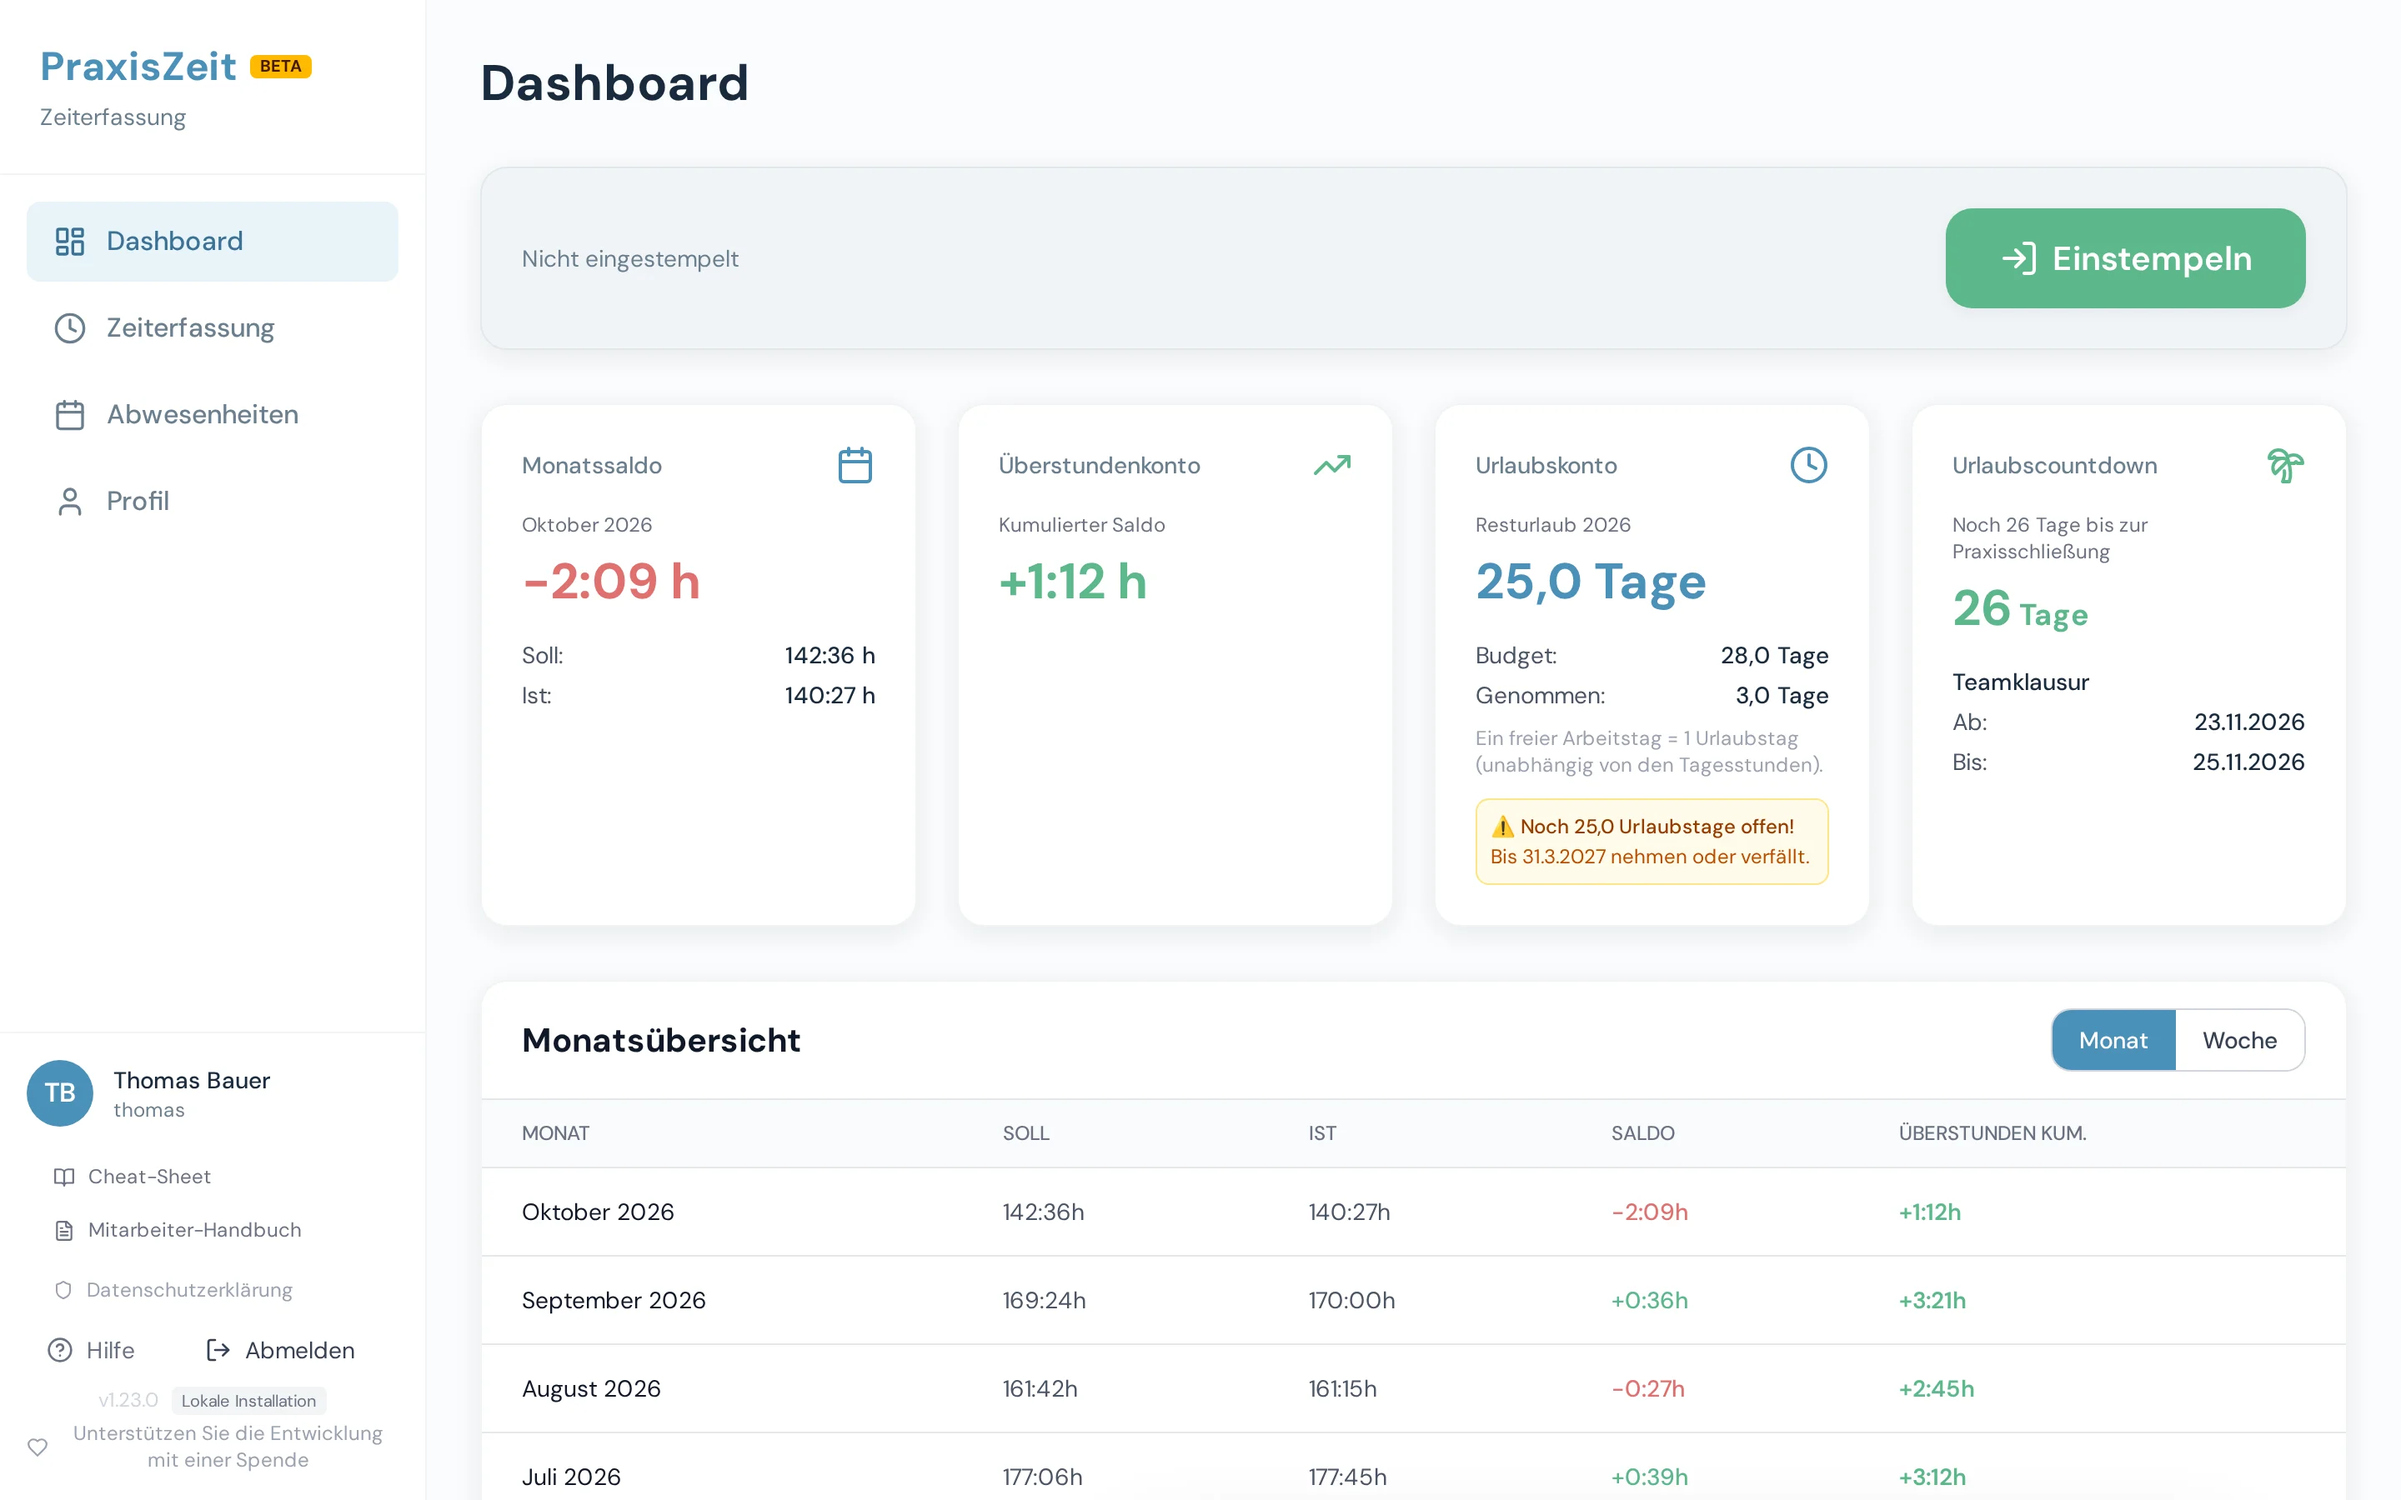
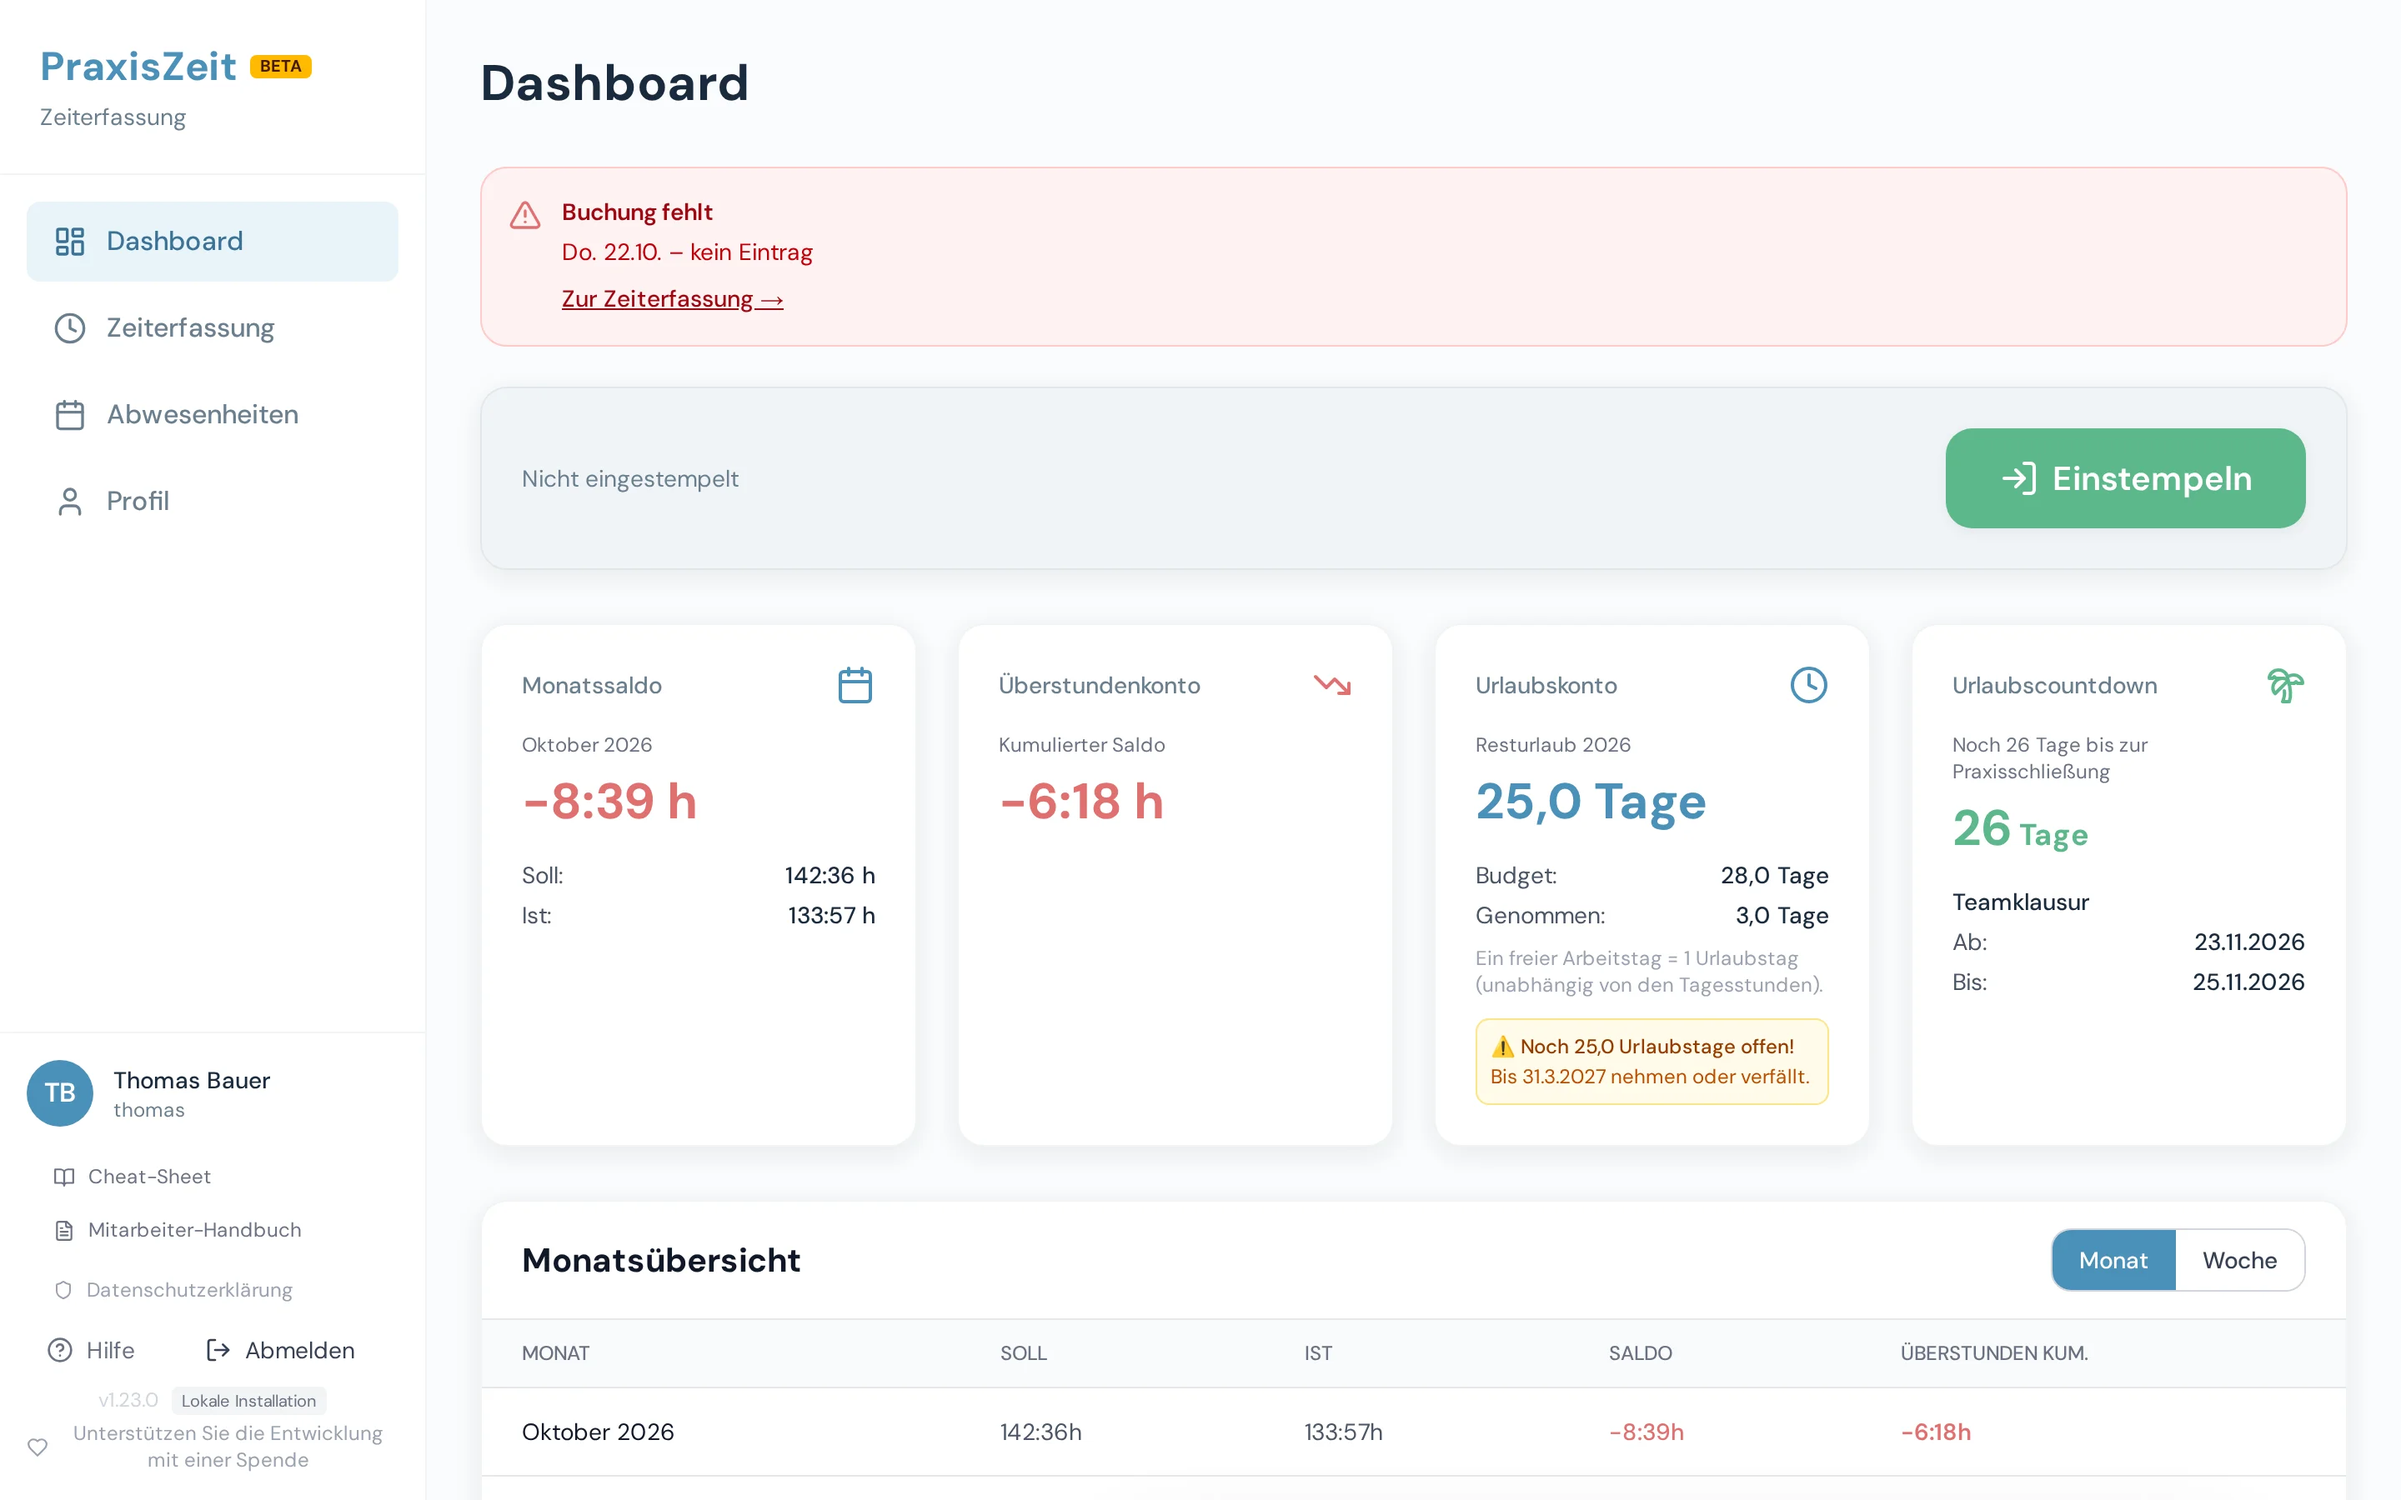
docs(handbuch): Mitarbeitende 1–4, Nachbesserung Runde 2 (R19)
Der absichtlich leere Werktag gehört jetzt Thomas statt Maria: Marias
Dashboard (Übersichtsaufnahme) zeigt wieder einen normalen Saldo ohne
„Buchung fehlt“. ma-vergangener-tag nimmt Thomas auf und füllt dessen
leeren Tag ({{werktag-4}}). Seed: THOMAS_FORGOTTEN_WORKDAY, der §4-Tag
bleibt stabil; PG-Test prüft Thomas' Lücke, seinen §4-Befund und dass
Maria im Stichtagsmonat keinen Werktag ohne Buchung hat.
ma-einstempeln (Thomas) enger geschnitten, damit der Kasten nicht
hineinragt.

diff --git a/frontend/src/handbuch/content/mitarbeitende.ts b/frontend/src/handbuch/content/mitarbeitende.ts
@@ -105,9 +105,9 @@ const shots: ShotDef[] = [
     persona: 'thomas',
     viewport: 'desktop',
     route: '/',
-    crop: { around: ['status', 'einstempeln'], pad: 56 },
+    crop: { around: ['status', 'einstempeln'], pad: 46 },
     markers: [
-      { n: 1, id: 'status', locator: { css: 'main >> text=Nicht eingestempelt >> visible=true' } },
+      { n: 1, id: 'status', locator: { css: 'main >> text=Nicht eingestempelt >> visible=true' }, badge: 'top' },
       { n: 2, id: 'einstempeln', locator: { role: 'button', name: 'Einstempeln', exact: true, within: 'main' }, badge: 'corner' },
     ],
     alt: 'Stempelkarte auf dem Dashboard mit dem Hinweis „Nicht eingestempelt“ und dem grünen Knopf „Einstempeln“',
@@ -159,12 +159,12 @@ const shots: ShotDef[] = [
   },
   {
     id: 'ma-vergangener-tag',
-    persona: 'maria',
+    persona: 'thomas',
     viewport: 'desktop',
     route: '/time-tracking',
     prepare: [
       { click: { role: 'button', name: 'Antrag', exact: true, within: 'main' } },
-      // Seed: an diesem Werktag hat Maria keinen Eintrag (MARIA_FORGOTTEN_WORKDAY)
+      // Seed: an diesem Werktag hat Thomas keinen Eintrag (THOMAS_FORGOTTEN_WORKDAY, R19)
       { fill: { label: 'Datum', within: 'dialog' }, value: '{{werktag-4}}' },
       { fill: { label: 'Bis', within: 'dialog' }, value: '16:30' },
       { fill: { label: 'Pause (Min.)', within: 'dialog' }, value: '30' },

diff --git a/backend/tests/test_handbuch_seed_pg.py b/backend/tests/test_handbuch_seed_pg.py
@@ -28,7 +28,7 @@ from __future__ import annotations
 import importlib.util
 import os
 import uuid
-from datetime import date, time
+from datetime import date, time, timedelta
 from pathlib import Path
 
 import pytest
@@ -666,25 +666,41 @@ def test_no_entry_of_the_stichtag_ends_after_capture_time(full_tenant, app_engin
     assert sorted((r[0], r[1]) for r in rows if r[2] is None) == [("maria", time(7, 45)), ("sarah", time(8, 0))]
 
 
-def test_maria_forgot_to_stamp_on_the_fourth_workday_before(full_tenant, app_engine, monkeypatch):
-    """Aufnahme ``ma-vergangener-tag`` füllt {{werktag-4}}: an diesem Werktag hat
-    Maria weder Eintrag noch Abwesenheit (Einstempeln vergessen); die Tage
-    davor und danach sind belegt. Spiegel von dates.ts::workdayBefore."""
-    from app.models import Absence, TimeEntry
+def test_thomas_forgot_to_stamp_on_the_fourth_workday_before(full_tenant, app_engine, monkeypatch):
+    """Aufnahme ``ma-vergangener-tag`` (Persona thomas) füllt {{werktag-4}}: an
+    diesem Werktag hat Thomas weder Eintrag noch Abwesenheit (Einstempeln
+    vergessen); die Tage davor und danach sind belegt. Maria hat dagegen keinen
+    fehlenden Werktag (ihr Dashboard zeigt kein „Buchung fehlt“, R19).
+    Spiegel von dates.ts::workdayBefore."""
+    from app.models import Absence, PublicHoliday, TimeEntry
     seed = _load_seed()
     assert seed.workday_before(date(2026, 10, 28), 4) == date(2026, 10, 22)
     assert seed.workday_before(date(2026, 11, 2), 1) == date(2026, 10, 30)
     _run_seed(app_engine, seed, monkeypatch)
-    day = seed.workday_before(STICHTAG, seed.MARIA_FORGOTTEN_WORKDAY)
+    day = seed.workday_before(STICHTAG, seed.THOMAS_FORGOTTEN_WORKDAY)
 
     def collect(db):
-        maria = db.query(User).filter(User.tenant_id == TENANT_ID, User.username == "maria").one()
-        entries = {e.date for e in db.query(TimeEntry).filter(
-            TimeEntry.tenant_id == TENANT_ID, TimeEntry.user_id == maria.id)}
-        absences = {a.date for a in db.query(Absence).filter(
-            Absence.tenant_id == TENANT_ID, Absence.user_id == maria.id)}
-        return entries, absences
+        users = {u.username: u for u in db.query(User).filter(User.tenant_id == TENANT_ID)}
+        def booked(name):
+            uid = users[name].id
+            entries = {e.date for e in db.query(TimeEntry).filter(
+                TimeEntry.tenant_id == TENANT_ID, TimeEntry.user_id == uid)}
+            absences = {a.date for a in db.query(Absence).filter(
+                Absence.tenant_id == TENANT_ID, Absence.user_id == uid)}
+            return entries, absences
+        holidays = {h.date for h in db.query(PublicHoliday).filter(PublicHoliday.tenant_id == TENANT_ID)}
+        waiver = [e.date for e in db.query(TimeEntry).filter(
+            TimeEntry.tenant_id == TENANT_ID, TimeEntry.user_id == users["thomas"].id,
+            TimeEntry.break_waiver_reason.isnot(None))]
+        return booked("thomas"), booked("maria"), holidays, waiver
 
-    entries, absences = _read(app_engine, collect)
-    assert day not in entries and day not in absences
-    assert seed.workday_before(STICHTAG, 3) in entries and seed.workday_before(STICHTAG, 5) in entries
+    (t_entries, t_abs), (m_entries, m_abs), holidays, waiver = _read(app_engine, collect)
+    assert day not in t_entries and day not in t_abs
+    assert seed.workday_before(STICHTAG, 3) in t_entries and seed.workday_before(STICHTAG, 5) in t_entries
+    assert len(waiver) == 1 and waiver[0] != day  # §4-Befund bleibt erhalten
+    # Maria: jeder vergangene Werktag im Stichtagsmonat ist belegt
+    d = STICHTAG.replace(day=1)
+    while d < STICHTAG:
+        if d.weekday() < 5 and d not in holidays:
+            assert d in m_entries or d in m_abs, f"Maria ohne Buchung am {d}"
+        d += timedelta(days=1)

diff --git a/backend/create_handbuch_testdata.py b/backend/create_handbuch_testdata.py
@@ -55,9 +55,10 @@ REASON_NAME = "Fortbildung extern"
 CLOSURE_NAME = "Teamklausur"
 REDUCED_DAY_LABEL = "Brückentag"
 REDUCED_DAY_MAX_HOURS = Decimal("4.00")
-# Maria hat an diesem Werktag vor dem Stichtag vergessen zu stempeln (kein
+# Thomas hat an diesem Werktag vor dem Stichtag vergessen zu stempeln (kein
 # Eintrag) — Handbuch-Aufnahme ``ma-vergangener-tag`` füllt {{werktag-4}}.
-MARIA_FORGOTTEN_WORKDAY = 4
+# Nicht Maria: ihr Dashboard ist die Übersichtsaufnahme ohne „Buchung fehlt“ (R19).
+THOMAS_FORGOTTEN_WORKDAY = 4
 
 # Sarah: Arbeitszeit-Blöcke Mo–Do 08–12 + 15–16, Fr 08–13 (25 h)
 SARAH_BLOCKS = [
@@ -552,10 +553,6 @@ def create_time_entries_for_user(db, user: User, holiday_dates: set, start: date
             days.append(d)
         d += timedelta(days=1)
 
-    if stichtag and user.username == "maria":
-        forgotten = workday_before(stichtag, MARIA_FORGOTTEN_WORKDAY)
-        days = [x for x in days if x != forgotten]
-
     through_days = set()
     if getattr(user, "work_blocks", None):
         # Durchgestempelt über die Mittagslücke → „zwischen den Blöcken nicht angerechnet"
@@ -566,6 +563,12 @@ def create_time_entries_for_user(db, user: User, holiday_dates: set, start: date
     waiver_day = None
     if stichtag and user.username == "thomas" and len(days) >= 8:
         waiver_day = days[-6] if days[-6] not in reduced else days[-7]
+    if stichtag and user.username == "thomas":
+        # erst nach der Wahl des §4-Tages, damit dieser stabil bleibt
+        forgotten = workday_before(stichtag, THOMAS_FORGOTTEN_WORKDAY)
+        if forgotten == waiver_day:
+            waiver_day = days[days.index(forgotten) - 1]
+        days = [x for x in days if x != forgotten]
 
     grace = work_window_service.get_grace_minutes(db, TENANT_ID)
     count = 0
